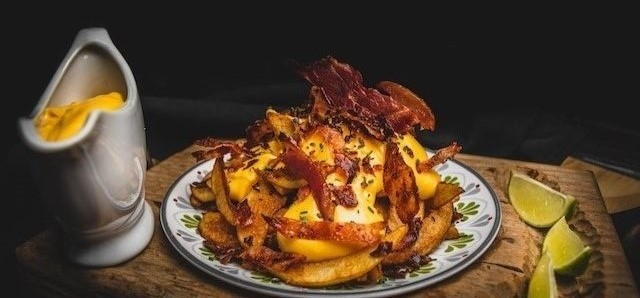
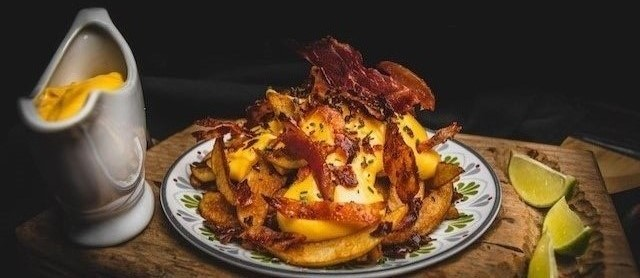
att

diff --git a/estilos/style.css b/estilos/style.css
@@ -234,7 +234,7 @@ section.classicos .card-item0 {
 }
 
 section.classicos .card-item01 {
-    height: 225px;
+    height: 194px;
     background:  var(--cor4);
     border-radius: 4px;
     display: flex;
@@ -276,9 +276,9 @@ section.classicos > div.card-wrapper0 > div.card-item0 > div.card-content0 > h3 
 }
 
 section.classicos > div.card-wrapper0 > div.card-item0 > div.card-content0 > h3 > img{
-    max-height: 30px;
+    max-height:30px;
     max-width: 30px;
-    padding-top: 12px;
+    padding-top: 10px;
     border-radius: 10px;
     margin: auto;
 }
@@ -320,7 +320,6 @@ height: 100%;
 display: grid;
 grid-template-columns: repeat(auto-fill, minmax(270px, 1fr));
 grid-gap: 5px;
-padding-top: 10px;
 padding-bottom: 10px;
 margin: 1px;
 }

diff --git a/index.html b/index.html
@@ -111,7 +111,6 @@
 
                 <div class="card-item01">
                   <div class="card-content01">
-                    <br>
                     <picture>
                       <source media="(max-width: 670px)" srcset="imagens/fritas-pq.jpg">
                       <img src="imagens/fritas.jpg" alt="Imagem de Batata frita">
